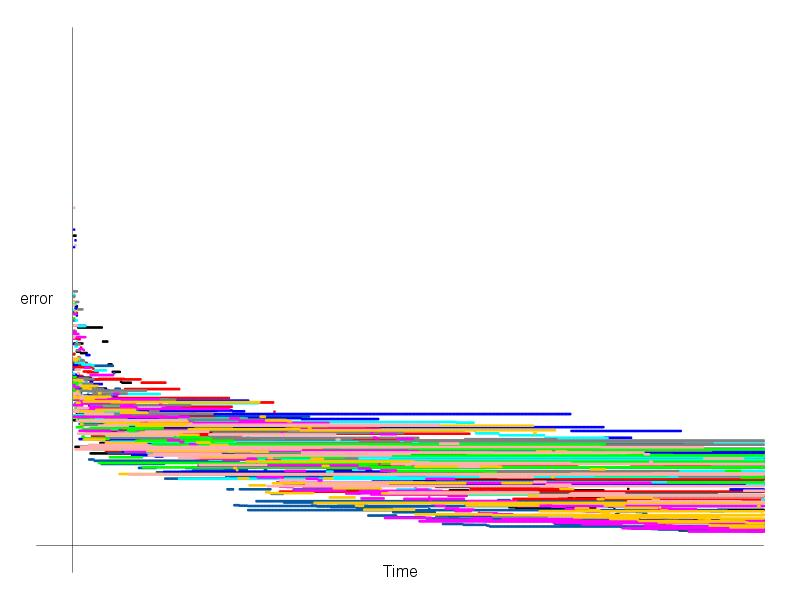
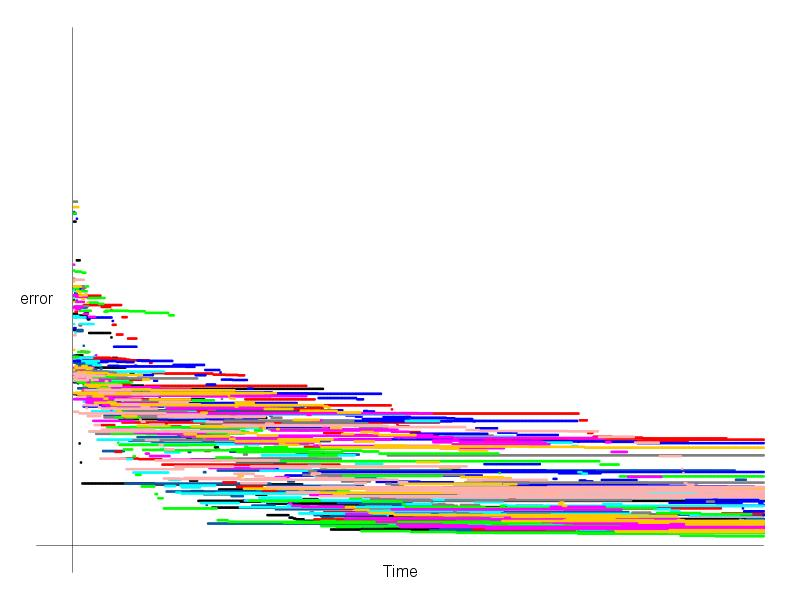
added serialize methods for Member class in DiffEvNetwork

Changed region(s): [[0.0625, 0.45, 0.9688, 0.9], [0.0938, 0.33, 0.125, 0.36]]

diff --git a/src/multiLayerPerceptron/DiffEvNetwork.java b/src/multiLayerPerceptron/DiffEvNetwork.java
@@ -14,12 +14,19 @@ import static multiLayerPerceptron.StdDraw.*;
  */
 public class DiffEvNetwork extends Network{
 
+	int nWeightsBiases; // stores the total number of weights and biases
+
 	DiffEvNetwork(int[] sizes, double scale){
 		super(sizes);
+
+		nWeightsBiases=0;
+		for(int l=1;l<layers;l++)
+			nWeightsBiases+=sizes[l]*sizes[l-1]+sizes[l];
 	}
 
 	@Override
 	public void train(double[][] input, double[][] output, double[] parameters){
+
 		int maxGen=(int)parameters[0];
 		int npop  =(int)parameters[1];
 		double beta=parameters[2];
@@ -92,30 +99,43 @@ public class DiffEvNetwork extends Network{
 		}
 	}
 
-	class Member{
-		double[][][] w;
-		double[][]   b;
 
+	// helper functions in case is helpful to have the weights and biases all in a nice vector
+	//
+	// serializeGenes()
+	// Creates a vector (1D array) of weights and biases from all the weights/biases in the network.
+	double[] serializeGenes(Member m){
+		double[] temp=new double[nWeightsBiases];
+		int k=0;
 
-		Member(){
-			w=new double[sizes.length][][];
-			b=new double[sizes.length][];
-			for(int l=1;l<sizes.length;l++){
-				w[l]=new double[sizes[l]][sizes[l-1]];
-				b[l]=new double[sizes[l]];
-			}
-		}
-
-		void initRandom(){
-			for(int l=1;l<sizes.length;l++){
-				for(int i=0;i<sizes[l];i++){
-					for(int j=0;j<sizes[l-1];j++){
-						w[l][i][j]=gen.nextGaussian();
-					}
-					b[l][i]=gen.nextGaussian();
+		for(int l=1;l<sizes.length;l++){
+			for(int i=0;i<sizes[l];i++){
+				for(int j=0;j<sizes[l-1];j++){
+					temp[k++]=m.w[l][i][j];
 				}
+				temp[k++]=m.b[l][i];
 			}
 		}
+		return temp;
+	}
+
+	// of course a vector form of the weights and biases is not good for running feedforward to
+	// get output from the network.
+	//
+	// unSerializeGenes()
+	// Creates a NEW Member from the serialized weight/biases.
+	Member unSerializeGenes(double[] ser){
+		Member m=new Member();
+		int k=0;
+		for(int l=1;l<sizes.length;l++){
+			for(int i=0;i<sizes[l];i++){
+				for(int j=0;j<sizes[l-1];j++){
+					m.w[l][i][j]=ser[k++];
+				}
+				m.b[l][i]=ser[k++];
+			}
+		}
+		return m;
 	}
 
 	double fitness(Member m, double[][] input, double[][] output){
@@ -163,7 +183,33 @@ public class DiffEvNetwork extends Network{
 		return temp;
 	}
 
-/////////////////////////////////////////////////////////////////////////////////////////////////
+	// inner class Member
+	// a simplified and faster version of the network class, since it only stores the weights
+	// and biases, and does not initialize them unless initRandom is explicitly called.
+	class Member{
+		double[][][] w;
+		double[][]   b;
 
+
+		Member(){
+			w=new double[sizes.length][][];
+			b=new double[sizes.length][];
+			for(int l=1;l<sizes.length;l++){
+				w[l]=new double[sizes[l]][sizes[l-1]];
+				b[l]=new double[sizes[l]];
+			}
+		}
+
+		void initRandom(){
+			for(int l=1;l<sizes.length;l++){
+				for(int i=0;i<sizes[l];i++){
+					for(int j=0;j<sizes[l-1];j++){
+						w[l][i][j]=gen.nextGaussian()*10;
+					}
+					b[l][i]=gen.nextGaussian()*10;
+				}
+			}
+		}
+	}
 
 }

diff --git a/src/multiLayerPerceptron/Network.java b/src/multiLayerPerceptron/Network.java
@@ -12,7 +12,7 @@ import static multiLayerPerceptron.MatMath.*;
 // The rest of the layers are the hidden layers with the last one being the output.
 // The weights, etc. are indexed i'th node, j'th input.
 //
-abstract class Network{
+class Network{
 	int[] sizes;	// sizes[0]=number of input nodes, sizes[len-1]=number of ouput nodes
 	int layers;		// sizes.length
 	int nInputs, nOutputs;
@@ -20,12 +20,13 @@ abstract class Network{
 	double scale;
 
 	double[][][] w;
-	double[][][] v;
 	double[][]   b;
 
   static Random gen=new Random();
 
-	public abstract void train(double[][] input, double[][] output, double[] parameters);
+	public void train(double[][] input, double[][] output, double[] parameters){
+
+	}
 
 	// constructor
 	// set size, activation functions. True is linear
@@ -36,16 +37,13 @@ abstract class Network{
 		nOutputs=sizes[sizes.length-1];
 
 		w=new double[layers][][];
-		v=new double[layers][][];
 		b=new double[layers][];
 		for(int l=1;l<layers;l++){
 			w[l]=new double[sizes[l]][sizes[l-1]];
-			v[l]=new double[sizes[l]][sizes[l-1]];
 			b[l]=new double[sizes[l]];
 			for(int i=0;i<sizes[l];i++){
 				for(int j=0;j<sizes[l-1];j++){
 					w[l][i][j]=gen.nextGaussian();
-					v[l][i][j]=0;
 				}
 				b[l][i]=gen.nextGaussian();
 			}
@@ -55,7 +53,6 @@ abstract class Network{
 	// feedForward()
 	// takes a vector of inputs, runs it through the network,
 	// returns a vector of outputs.
-	// (Had better be the same as the feedForward step in the backprop function below!)
 	double[] feedForward(double[] input){
 		double[] a = input;
 		for(int l=1;l<layers;l++){
@@ -112,6 +109,4 @@ abstract class Network{
 			b[j]=temp;
 		}
 	}
-
-	double getScale(){return scale;}
 }

diff --git a/src/multiLayerPerceptron/MLPTester.java b/src/multiLayerPerceptron/MLPTester.java
@@ -21,6 +21,10 @@ public class MLPTester{
 
 		for(int file=0;file<10;file++){
 
+			// to skip all but one dataset, for testing
+			if(file != 1)
+				continue;
+
 			ArffReader dataFile = new ArffReader(filelist[file]+".arff");
 
 			int nin=dataFile.nAttributes; // number of attributes from file
@@ -30,7 +34,7 @@ public class MLPTester{
 			////////////////////////////////////////////////////
 			// main setting of parameters
 			//
-			int[]	sizes=new int[]{nin,20,nout}; // the number of nodes in each layer. {nin,10,nout} is 1 hidden layer with 10 nodes
+			int[]	sizes=new int[]{nin,2,5,nout}; // the number of nodes in each layer. {nin,10,nout} is 1 hidden layer with 10 nodes
 
 			//todo read parameters from file
 			double[][][] parameters=new double[10][4][]; //file dataset, then algorithm, then parameter #
@@ -64,10 +68,13 @@ public class MLPTester{
 
 			for(Algs alg: Algs.values()){ // loop through all the algorithms
 
+				// to skip an algorithm for testing
 				if(alg==Algs.MuLambda)
 					continue;// not yet implemented
 				if(alg==Algs.GeneticAlg)
 					continue;// not yet implemented
+				if(alg==Algs.Backprop)
+					continue;
 
 				String algname=(alg==Algs.Backprop? "Backpropogation": (alg==Algs.MuLambda? "MuLambda":
 								(alg==Algs.DiffEv? "Differential Evolution": "GeneticAlg")));
@@ -163,7 +170,7 @@ public class MLPTester{
 
 					//System.out.println("fold: "+fold+" right: "+right[fold]+" wrong: "+wrong[fold]);
 
-					scale=net.getScale();
+					scale=net.scale;
 				}
 
 				double mean=0;

diff --git a/src/multiLayerPerceptron/BackpropNetwork.java b/src/multiLayerPerceptron/BackpropNetwork.java
@@ -6,9 +6,20 @@ import static multiLayerPerceptron.StdDraw.*;
 
 public class BackpropNetwork extends Network{
 
+	double[][][] v; //velocity for using momentum
 
 	BackpropNetwork(int[] sizes, double scale){
 		super(sizes);
+
+		v=new double[layers][][]; // just need to add the velocity initalization
+		for(int l=1;l<layers;l++){
+			v[l]=new double[sizes[l]][sizes[l-1]];
+			for(int i=0;i<sizes[l];i++){
+				for(int j=0;j<sizes[l-1];j++){
+					v[l][i][j]=0;
+				}
+			}
+		}
 	}
 
 	@Override
@@ -76,7 +87,7 @@ public class BackpropNetwork extends Network{
 		for(int l=1;l<layers;l++){
 			v[l] = matSub(matMult(mu, v[l]), matMult(eta,matMult(delta[l],a[l-1])));
 			w[l] = matAdd(w[l], v[l]);
-			//w[l] = matSub(w[l], matMult(eta,matMult(delta[l],a[l-1])));
+			//w[l] = matSub(w[l], matMult(eta,matMult(delta[l],a[l-1]))); //to not use momentum
 			b[l] = vecSub(b[l], vecMult(eta, delta[l]));
 		}
 	}
